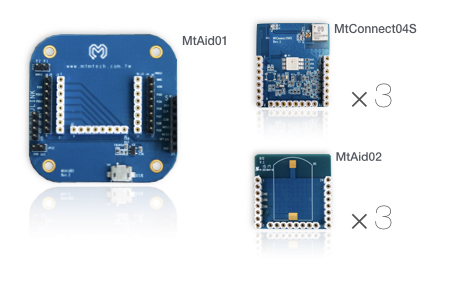
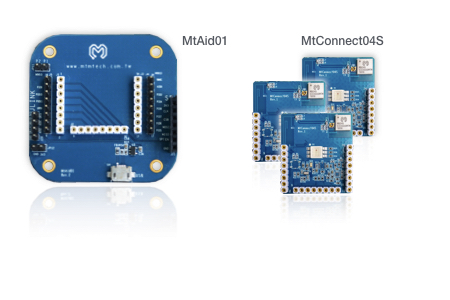
Remove MtAid02 from kit MtConnect04S and MtConnect02

Changed region(s): [[0.56, 0.06, 0.9333, 0.81], [0.84, 0.66, 0.8711, 0.78], [0.7778, 0.72, 0.8089, 0.78]]

diff --git a/kit.html b/kit.html
@@ -336,18 +336,15 @@
                     <h4>includes</h4>
                     <ul class="kit-mtc04s kit-mtc04s-basic">
                         <li>3✕ MtConnect04S <sup class="link-mtconnect04s">spec</sup></li>
-                        <li>3✕ MtAid02 (Coin battary socket)</li>
                         <li>1✕ MtAid01</li>
                     </ul>
                     <ul class="kit-mtc04s kit-mtc04s-jlink hidden">
                         <li>3✕ MtConnect04S <sup class="link-mtconnect04s">spec</sup></li>
-                        <li>3✕ MtAid02 (Coin battary socket)</li>
                         <li>1✕ MtAid01</li>
                         <li>1✕ J-link OB</li>
                     </ul>
                     <ul class="kit-mtc04s kit-mtc04s-mbed hidden">
                         <li>3✕ MtConnect04S <sup class="link-mtconnect04s">spec</sup></li>
-                        <li>3✕ MtAid02 (Coin battary socket)</li>
                         <li>1✕ MtAid01-mbed</li>
                     </ul>
                     <h4>price</h4>
@@ -384,7 +381,6 @@
                     <h4>includes</h4>
                     <ul class="kit-mtc02 kit-mtc02-basic">
                         <li>3✕ MtConnect02 <sup class="link-mtconnect02">spec</sup></li>
-                        <li>3✕ MtAid02 (Coin battary socket)</li>
                         <li>1✕ MtAid01</li>
                         <li>1✕ CSR USB<>SPI</li>
                     </ul>
